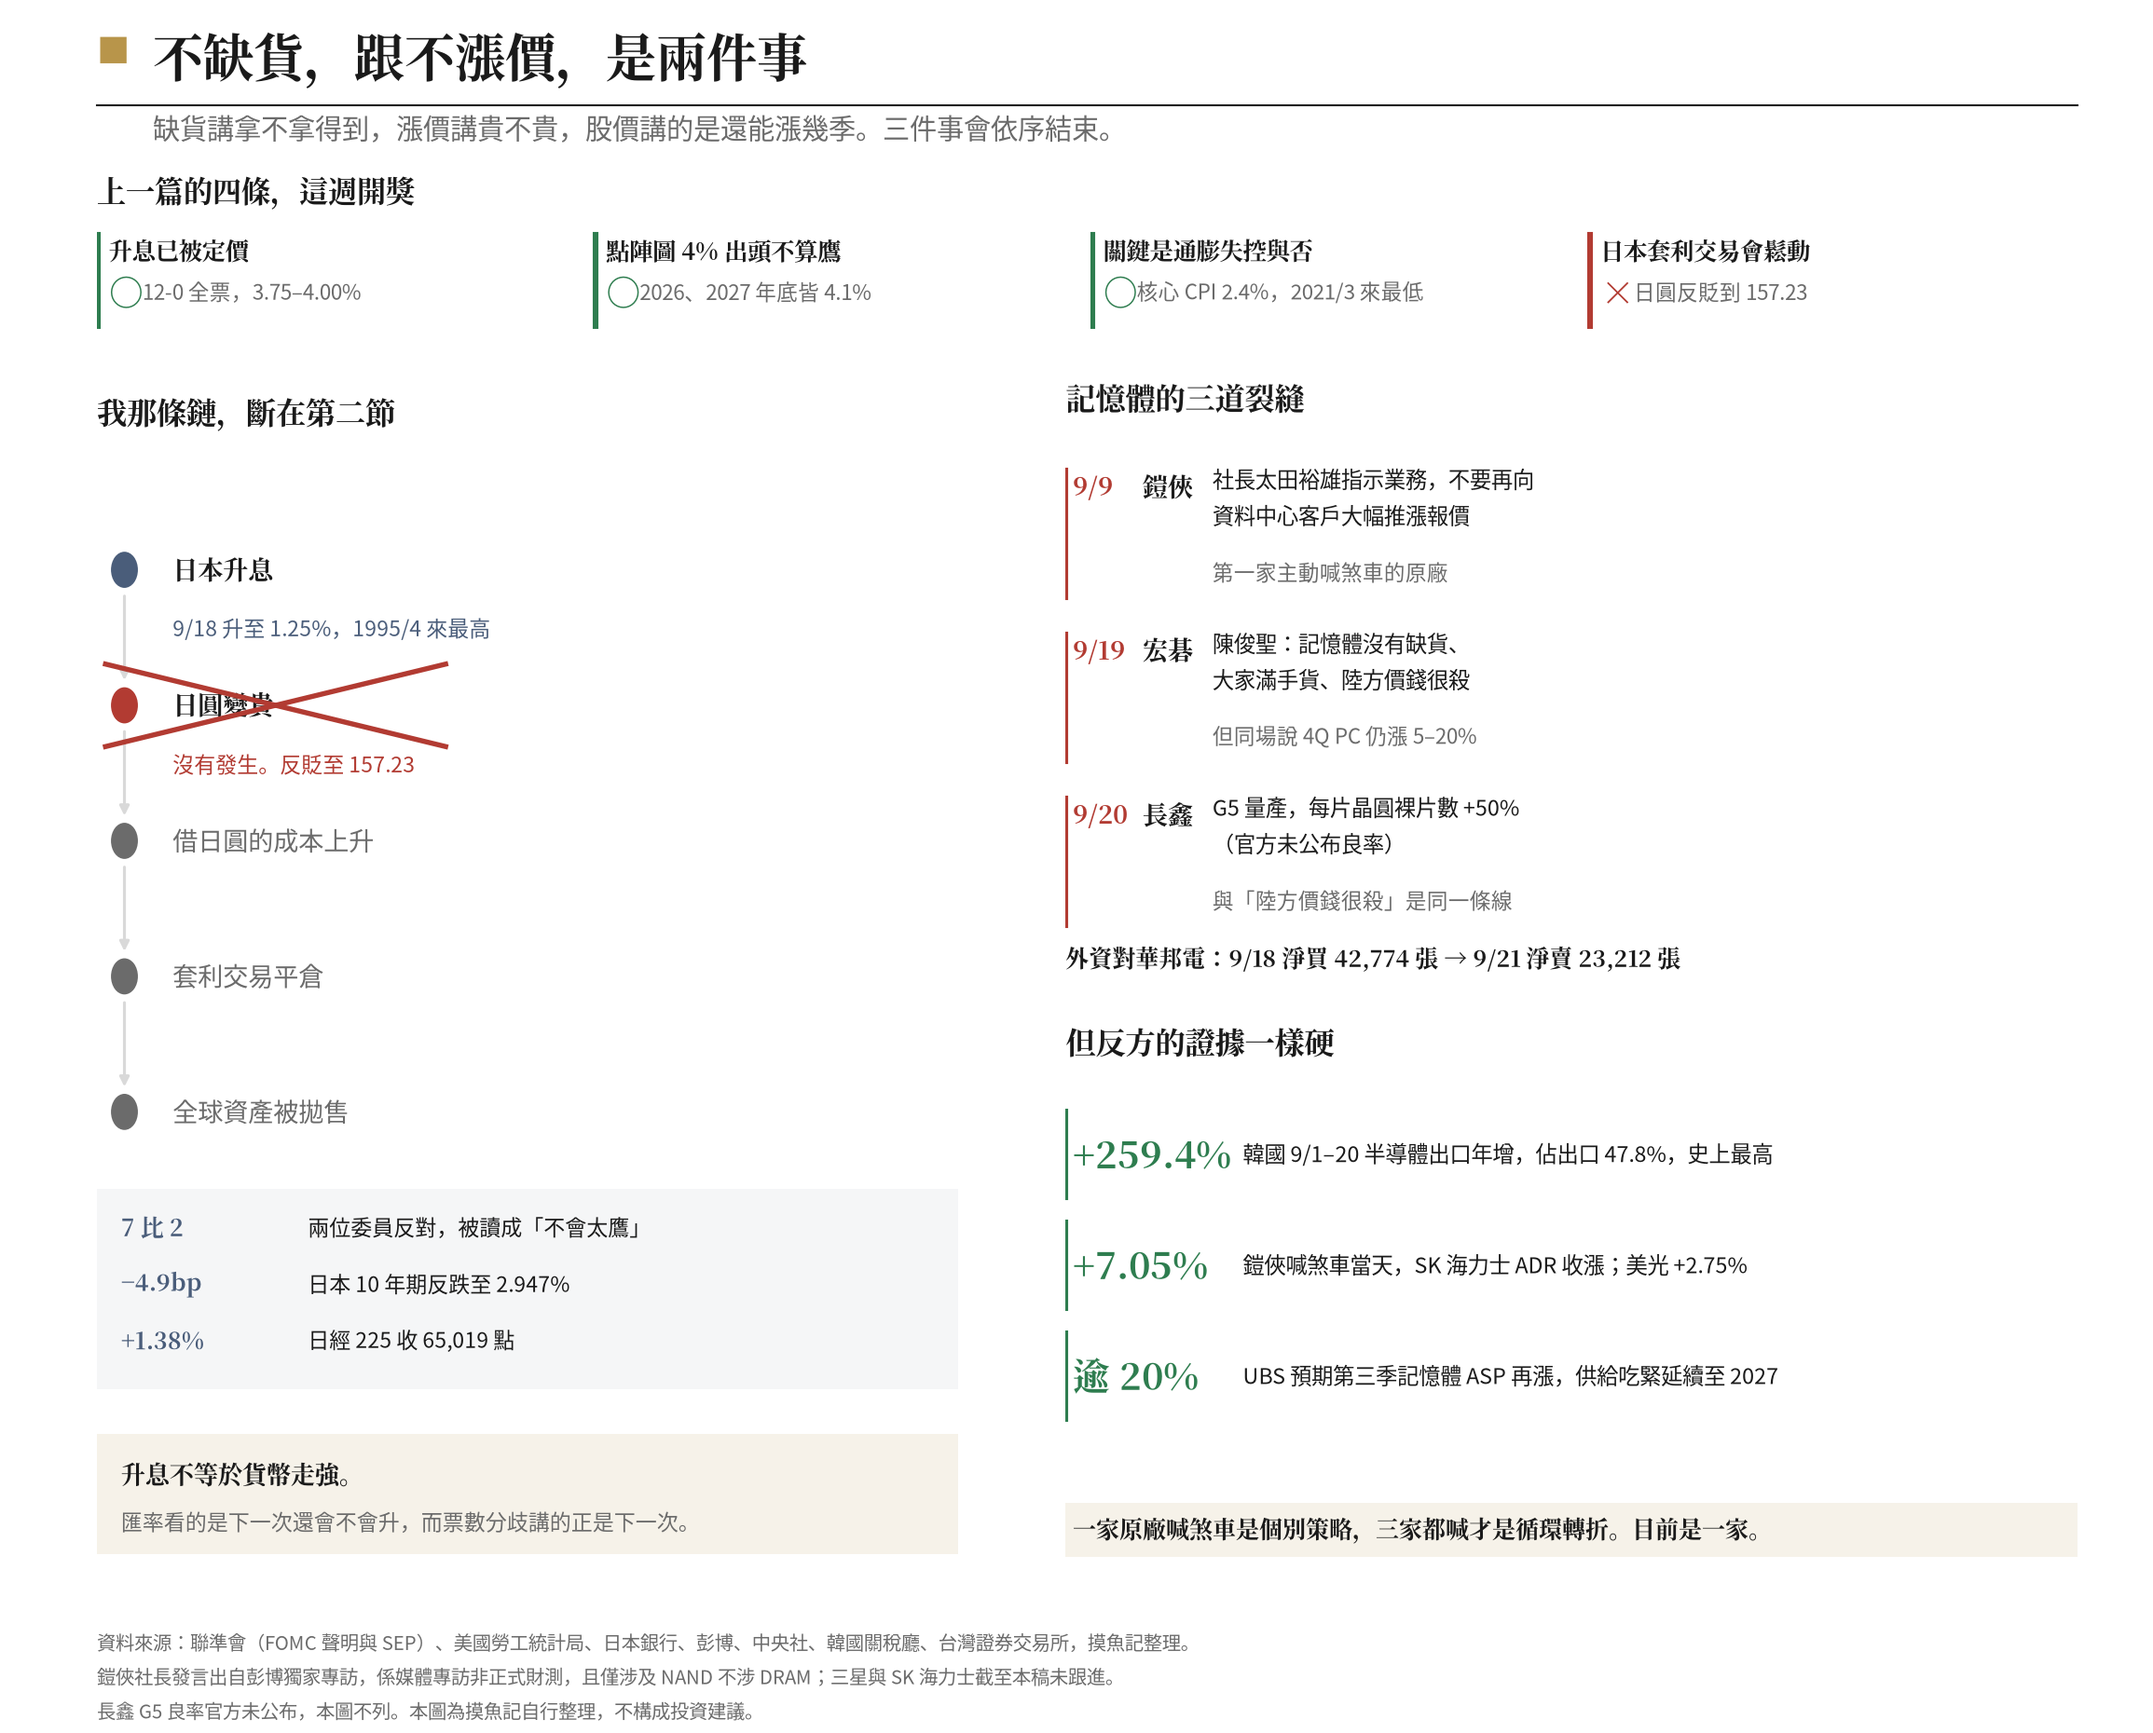
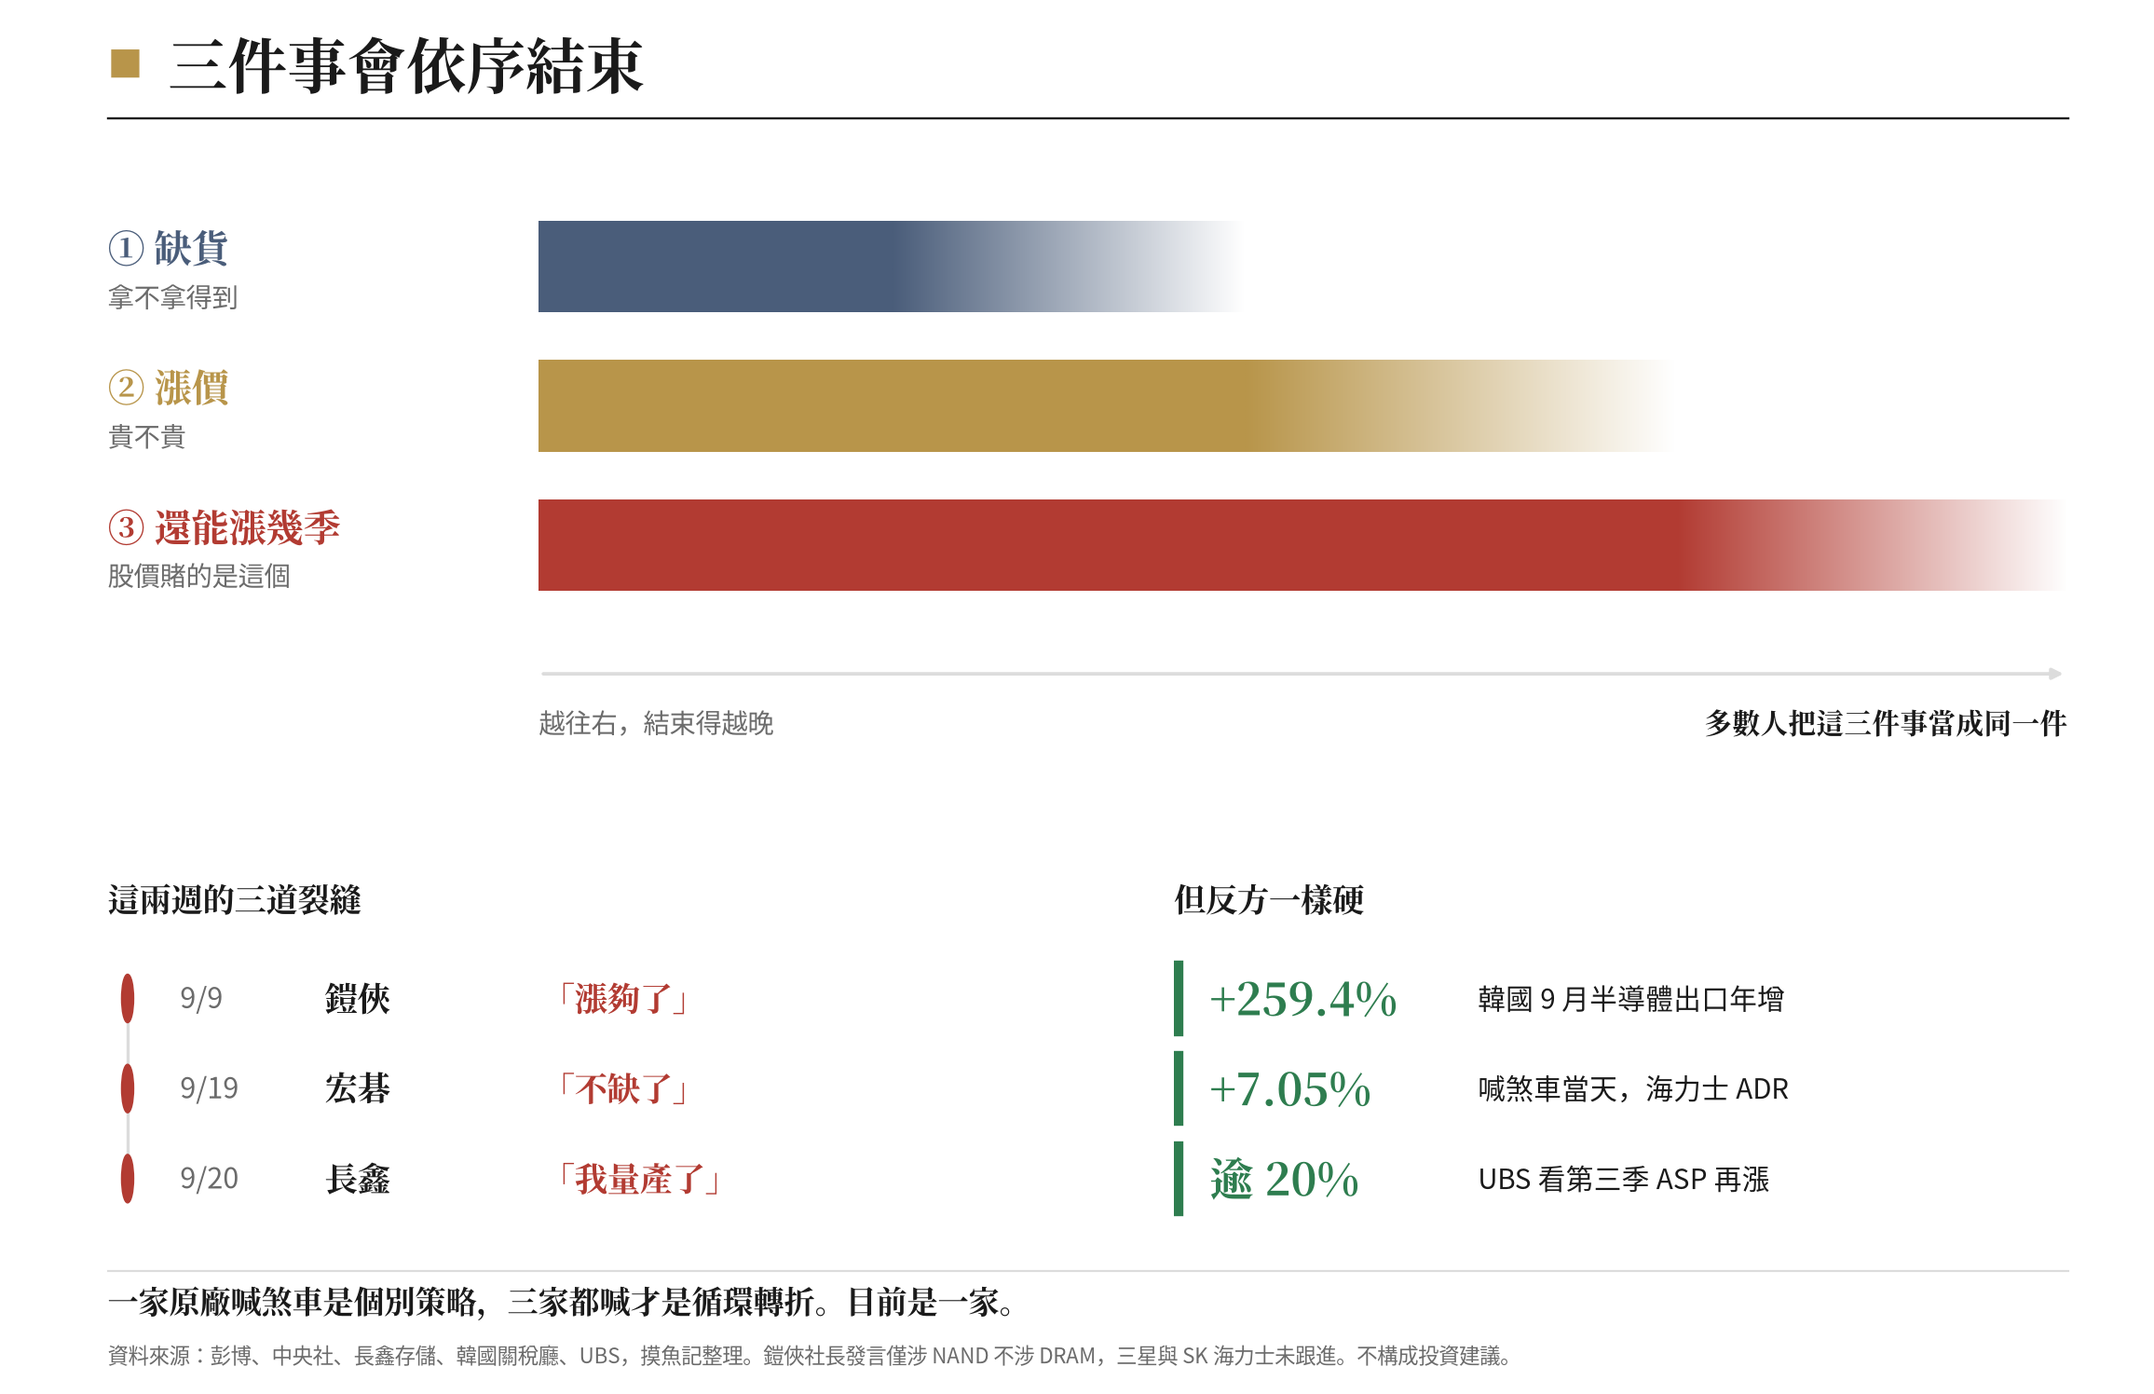
記憶體篇配圖改為 v2 極簡版
Jake 回饋 v1 資訊太多、要放重點、圖示比文字重要。砍掉一半內容，
改成單一主視覺。

主視覺：三條由實轉虛的橫條，長度遞增，末端用平滑漸層淡出代表
「會結束但時點未知」——缺貨（拿不拿得到）最先結束、漲價（貴不貴）
晚一點、還能漲幾季（股價賭的是這個）最後。這是全篇論點的視覺化，
不需要文字解釋。

左下三道裂縫壓到每列只有日期＋機構＋三到四字引號句（漲夠了／不缺了／
我量產了）；右下只留三個反方大數字。

砍掉：對帳計分卡四格、日本斷鏈五節圖、外資華邦電張數、所有解釋句。
這些正文都已寫到，圖不必重講。

技術面：漸層改用 LinearSegmentedColormap + imshow，消除 v1 用多個
薄矩形疊加造成的直條紋；並收緊第三條與座標軸之間的空白。
草稿的圖表註記段落同步改寫。

Claude-Session: https://claude.ai/code/session_017fQSiLgrET3Kg63C49rJdr

diff --git a/personal/drafts/gen_CRACK_chart.py b/personal/drafts/gen_CRACK_chart.py
@@ -1,12 +1,15 @@
 """
-摸魚記 記憶體對帳篇 圖：對帳計分卡 ＋ 日本那條斷掉的鏈 ＋ 三道裂縫與反方證據
-JPM Daily Guide 版型（白底、金色章頭方塊、Serif Bold 標題），沿用放大字級
+摸魚記 記憶體對帳篇 圖 v2：極簡版
+主視覺只有一個：三條依序結束的橫條。其餘壓到最低。
+JPM Daily Guide 版型（白底、金色章頭方塊、Serif Bold 標題）
 """
 import matplotlib
 matplotlib.use('Agg')
 import matplotlib.pyplot as plt
 import matplotlib.patches as mpatches
 import matplotlib.font_manager as fm
+import numpy as np
+from matplotlib.colors import LinearSegmentedColormap
 
 SANS = '/usr/share/fonts/opentype/noto/NotoSansCJK-Regular.ttc'
 SERIF_B = '/usr/share/fonts/opentype/noto/NotoSerifCJK-Bold.ttc'
@@ -17,163 +20,99 @@ serif_b = fm.FontProperties(fname=SERIF_B)
 matplotlib.rcParams['font.family'] = sans.get_name()
 matplotlib.rcParams['axes.unicode_minus'] = False
 
-BG = "#ffffff"; INK = "#1a1a1a"; GREY = "#6b6b6b"; LGRID = "#d9d9d9"
+BG = "#ffffff"; INK = "#1a1a1a"; GREY = "#6b6b6b"; LGRID = "#dcdcdc"
 GOLD = "#b8954a"; RED = "#b23b32"; GREEN = "#2e7d4f"; SLATE = "#4a5d7a"
 
-fig = plt.figure(figsize=(15.4, 12.4), facecolor=BG)
+fig = plt.figure(figsize=(13.6, 8.8), facecolor=BG)
 
 # ══════════ 章頭 ══════════
-fig.text(0.045, 0.964, "■", color=GOLD, fontsize=17)
-fig.text(0.071, 0.956, "不缺貨，跟不漲價，是兩件事",
-         color=INK, fontsize=26, fontproperties=serif_b)
-fig.lines.append(plt.Line2D([0.045, 0.965], [0.939, 0.939],
+fig.text(0.05, 0.945, "■", color=GOLD, fontsize=16)
+fig.text(0.078, 0.937, "三件事會依序結束",
+         color=INK, fontsize=27, fontproperties=serif_b)
+fig.lines.append(plt.Line2D([0.05, 0.96], [0.915, 0.915],
                             transform=fig.transFigure, color=INK, lw=1.0))
-fig.text(0.071, 0.920,
-         "缺貨講拿不拿得到，漲價講貴不貴，股價講的是還能漲幾季。三件事會依序結束。",
-         color=GREY, fontsize=14)
 
-# ══════════ 全寬：對帳計分卡 ══════════
-axT = fig.add_axes([0.045, 0.806, 0.920, 0.098])
-axT.set_facecolor(BG); axT.axis('off')
-axT.set_xlim(0, 100); axT.set_ylim(0, 10)
+# ══════════ 主視覺：三條依序結束的橫條 ══════════
+axM = fig.add_axes([0.05, 0.455, 0.91, 0.425])
+axM.set_facecolor(BG); axM.axis('off')
+axM.set_xlim(0, 100); axM.set_ylim(0, 10)
 
-axT.text(0, 9.4, "上一篇的四條，這週開獎", color=INK,
-         fontsize=15, fontproperties=serif_b, va='top')
-
-cards = [
-    ("升息已被定價", "○", "12-0 全票，3.75–4.00%", GREEN),
-    ("點陣圖 4% 出頭不算鷹", "○", "2026、2027 年底皆 4.1%", GREEN),
-    ("關鍵是通膨失控與否", "○", "核心 CPI 2.4%，2021/3 來最低", GREEN),
-    ("日本套利交易會鬆動", "×", "日圓反貶到 157.23", RED),
+bars = [
+    ("① 缺貨", "拿不拿得到", 40, 58, SLATE),
+    ("② 漲價", "貴不貴", 58, 80, GOLD),
+    ("③ 還能漲幾季", "股價賭的是這個", 80, 100, RED),
 ]
-for i, (claim, mark, note, c) in enumerate(cards):
-    x = i * 25.1
-    axT.add_patch(mpatches.Rectangle((x, 0.5), 0.16, 5.6, color=c, zorder=3))
-    axT.text(x + 0.6, 5.0, claim, color=INK, fontsize=12.2,
-             fontproperties=serif_b, va='center')
-    axT.text(x + 0.6, 2.6, f"{mark}", color=c, fontsize=18,
-             fontproperties=serif_b, va='center')
-    axT.text(x + 2.3, 2.6, note, color=GREY, fontsize=10.8, va='center')
 
-# ══════════ 左欄：日本那條斷掉的鏈 ══════════
-axL = fig.add_axes([0.045, 0.100, 0.400, 0.680])
+BAR_H = 1.55
+for i, (name, sub, solid, fade, c) in enumerate(bars):
+    y = 7.55 - i * 2.35
+    axM.add_patch(mpatches.Rectangle((22, y), solid - 22, BAR_H,
+                                     facecolor=c, zorder=3))
+    cmap = LinearSegmentedColormap.from_list('fade', [c, BG])
+    axM.imshow(np.linspace(0, 1, 512).reshape(1, -1),
+               extent=[solid, fade, y, y + BAR_H],
+               aspect='auto', cmap=cmap, zorder=3, interpolation='bilinear')
+    axM.text(0, y + BAR_H / 2 + 0.30, name, color=c, fontsize=17,
+             fontproperties=serif_b, va='center')
+    axM.text(0, y + BAR_H / 2 - 0.52, sub, color=GREY, fontsize=12, va='center')
+
+axM.annotate("", xy=(100, 1.45), xytext=(22, 1.45),
+             arrowprops=dict(arrowstyle='-|>', color=LGRID, lw=1.6))
+axM.text(22, 0.62, "越往右，結束得越晚", color=GREY, fontsize=12, va='center')
+axM.text(100, 0.62, "多數人把這三件事當成同一件", color=INK, fontsize=12.5,
+         fontproperties=serif_b, va='center', ha='right')
+
+# ══════════ 左下：三道裂縫 ══════════
+axL = fig.add_axes([0.05, 0.105, 0.42, 0.275])
 axL.set_facecolor(BG); axL.axis('off')
-axL.set_xlim(0, 10); axL.set_ylim(0, 10)
+axL.set_xlim(0, 100); axL.set_ylim(0, 10)
 
-axL.text(0, 9.72, "我那條鏈，斷在第二節", color=INK,
-         fontsize=15.5, fontproperties=serif_b, va='center')
+axL.text(0, 9.5, "這兩週的三道裂縫", color=INK,
+         fontsize=14.5, fontproperties=serif_b, va='top')
 
-chain = [
-    ("日本升息", True, SLATE, "9/18 升至 1.25%，1995/4 來最高"),
-    ("日圓變貴", False, RED, "沒有發生。反貶至 157.23"),
-    ("借日圓的成本上升", False, GREY, ""),
-    ("套利交易平倉", False, GREY, ""),
-    ("全球資產被拋售", False, GREY, ""),
-]
-for i, (txt, ok, c, note) in enumerate(chain):
-    y = 8.40 - i * 1.15
-    axL.add_patch(mpatches.Circle((0.32, y), 0.145, color=c, zorder=3))
-    axL.text(0.88, y, txt, color=INK if ok or i == 1 else GREY,
-             fontsize=13, fontproperties=serif_b if i <= 1 else sans, va='center')
-    if note:
-        axL.text(0.88, y - 0.50, note, color=c, fontsize=11, va='center')
-    if i < len(chain) - 1:
-        style = '-|>' if i == 0 else '-|>'
-        col = LGRID if i > 0 else LGRID
-        axL.annotate("", xy=(0.32, y - 0.97), xytext=(0.32, y - 0.19),
-                     arrowprops=dict(arrowstyle=style, color=col, lw=1.5))
-
-axL.plot([0.10, 4.05], [7.60, 6.90], color=RED, lw=2.6, zorder=5)
-axL.plot([0.10, 4.05], [6.90, 7.60], color=RED, lw=2.6, zorder=5)
-
-axL.add_patch(mpatches.Rectangle((0, 1.45), 10, 1.70,
-                                 facecolor=SLATE, alpha=0.055, zorder=0))
-evid = [
-    ("7 比 2", "兩位委員反對，被讀成「不會太鷹」"),
-    ("−4.9bp", "日本 10 年期反跌至 2.947%"),
-    ("+1.38%", "日經 225 收 65,019 點"),
-]
-for i, (num, desc) in enumerate(evid):
-    y = 2.82 - i * 0.48
-    axL.text(0.28, y, num, color=SLATE, fontsize=12,
+cracks = [("9/9", "鎧俠", "漲夠了"),
+          ("9/19", "宏碁", "不缺了"),
+          ("9/20", "長鑫", "我量產了")]
+for i, (d, who, what) in enumerate(cracks):
+    y = 6.5 - i * 2.35
+    axL.add_patch(mpatches.Circle((2.2, y), 0.62, color=RED, zorder=3))
+    axL.text(8, y, d, color=GREY, fontsize=13, va='center')
+    axL.text(24, y, who, color=INK, fontsize=15,
              fontproperties=serif_b, va='center')
-    axL.text(2.45, y, desc, color=INK, fontsize=11, va='center')
+    axL.text(48, y, f"「{what}」", color=RED, fontsize=15,
+             fontproperties=serif_b, va='center')
+    if i < 2:
+        axL.plot([2.2, 2.2], [y - 0.66, y - 1.69], color=LGRID, lw=1.4, zorder=1)
 
-axL.add_patch(mpatches.Rectangle((0, 0.05), 10, 1.02,
-                                 facecolor=GOLD, alpha=0.12, zorder=0))
-axL.text(0.28, 0.72, "升息不等於貨幣走強。", color=INK,
-         fontsize=12.6, fontproperties=serif_b, va='center')
-axL.text(0.28, 0.32, "匯率看的是下一次還會不會升，而票數分歧講的正是下一次。",
-         color=GREY, fontsize=11, va='center')
-
-# ══════════ 右欄上：三道裂縫 ══════════
-axR = fig.add_axes([0.495, 0.432, 0.470, 0.348])
+# ══════════ 右下：反方 ══════════
+axR = fig.add_axes([0.545, 0.105, 0.415, 0.275])
 axR.set_facecolor(BG); axR.axis('off')
 axR.set_xlim(0, 100); axR.set_ylim(0, 10)
 
-axR.text(0, 9.72, "記憶體的三道裂縫", color=INK,
-         fontsize=15.5, fontproperties=serif_b, va='center')
+axR.text(0, 9.5, "但反方一樣硬", color=INK,
+         fontsize=14.5, fontproperties=serif_b, va='top')
 
-cracks = [
-    ("9/9", "鎧俠", RED,
-     ["社長太田裕雄指示業務，不要再向", "資料中心客戶大幅推漲報價"],
-     "第一家主動喊煞車的原廠"),
-    ("9/19", "宏碁", RED,
-     ["陳俊聖：記憶體沒有缺貨、", "大家滿手貨、陸方價錢很殺"],
-     "但同場說 4Q PC 仍漲 5–20%"),
-    ("9/20", "長鑫", RED,
-     ["G5 量產，每片晶圓裸片數 +50%", "（官方未公布良率）"],
-     "與「陸方價錢很殺」是同一條線"),
-]
-for i, (d, who, c, lines, tail) in enumerate(cracks):
-    top = 8.55 - i * 2.72
-    axR.add_patch(mpatches.Rectangle((0, top - 2.16), 0.16, 2.16,
-                                     color=c, zorder=3))
-    axR.text(0.7, top - 0.30, d, color=c, fontsize=13,
+counters = [("+259.4%", "韓國 9 月半導體出口年增"),
+            ("+7.05%", "喊煞車當天，海力士 ADR"),
+            ("逾 20%", "UBS 看第三季 ASP 再漲")]
+for i, (num, desc) in enumerate(counters):
+    y = 6.5 - i * 2.35
+    axR.add_patch(mpatches.Rectangle((0, y - 0.95), 0.9, 1.9,
+                                     color=GREEN, zorder=3))
+    axR.text(4, y, num, color=GREEN, fontsize=20,
              fontproperties=serif_b, va='center')
-    axR.text(7.6, top - 0.30, who, color=INK, fontsize=13,
-             fontproperties=serif_b, va='center')
-    for j, ln in enumerate(lines):
-        axR.text(14.5, top - 0.18 - j * 0.60, ln, color=INK,
-                 fontsize=11.2, va='center')
-    axR.text(14.5, top - 1.72, tail, color=GREY, fontsize=10.8, va='center')
+    axR.text(34, y, desc, color=INK, fontsize=12.5, va='center')
 
-axR.text(0, 0.42, "外資對華邦電：9/18 淨買 42,774 張 → 9/21 淨賣 23,212 張",
-         color=INK, fontsize=11.8, fontproperties=serif_b, va='center')
-
-# ══════════ 右欄下：反方證據 ══════════
-fig.text(0.495, 0.392, "但反方的證據一樣硬", color=INK,
-         fontsize=15.5, fontproperties=serif_b)
-
-axB = fig.add_axes([0.495, 0.100, 0.470, 0.272])
-axB.set_facecolor(BG); axB.axis('off')
-axB.set_xlim(0, 100); axB.set_ylim(0, 10)
-
-counters = [
-    ("+259.4%", "韓國 9/1–20 半導體出口年增，佔出口 47.8%，史上最高", GREEN),
-    ("+7.05%", "鎧俠喊煞車當天，SK 海力士 ADR 收漲；美光 +2.75%", GREEN),
-    ("逾 20%", "UBS 預期第三季記憶體 ASP 再漲，供給吃緊延續至 2027", GREEN),
-]
-for i, (num, desc, c) in enumerate(counters):
-    y = 8.6 - i * 2.35
-    axB.add_patch(mpatches.Rectangle((0, y - 0.95), 0.16, 1.90,
-                                     color=c, zorder=3))
-    axB.text(0.7, y, num, color=c, fontsize=19,
-             fontproperties=serif_b, va='center')
-    axB.text(17.5, y, desc, color=INK, fontsize=11.2, va='center')
-
-axB.add_patch(mpatches.Rectangle((0, 0.05), 100, 1.15,
-                                 facecolor=GOLD, alpha=0.12, zorder=0))
-axB.text(0.7, 0.62, "一家原廠喊煞車是個別策略，三家都喊才是循環轉折。目前是一家。",
-         color=INK, fontsize=12, fontproperties=serif_b, va='center')
-
-fig.text(0.045, 0.062,
-         "資料來源：聯準會（FOMC 聲明與 SEP）、美國勞工統計局、日本銀行、彭博、中央社、韓國關稅廳、台灣證券交易所，摸魚記整理。\n"
-         "鎧俠社長發言出自彭博獨家專訪，係媒體專訪非正式財測，且僅涉及 NAND 不涉 DRAM；三星與 SK 海力士截至本稿未跟進。\n"
-         "長鑫 G5 良率官方未公布，本圖不列。本圖為摸魚記自行整理，不構成投資建議。",
-         color=GREY, fontsize=9.8, linespacing=1.8, va='top')
+# ══════════ 底線 ══════════
+fig.lines.append(plt.Line2D([0.05, 0.96], [0.088, 0.088],
+                            transform=fig.transFigure, color=LGRID, lw=0.9))
+fig.text(0.05, 0.058, "一家原廠喊煞車是個別策略，三家都喊才是循環轉折。目前是一家。",
+         color=INK, fontsize=14, fontproperties=serif_b)
+fig.text(0.05, 0.022,
+         "資料來源：彭博、中央社、長鑫存儲、韓國關稅廳、UBS，摸魚記整理。鎧俠社長發言僅涉 NAND 不涉 DRAM，三星與 SK 海力士未跟進。不構成投資建議。",
+         color=GREY, fontsize=9.5)
 
 out = '/home/user/KIWI/personal/drafts/CRACK-chart-memory.png'
-plt.savefig(out, dpi=150, facecolor=BG)
+plt.savefig(out, dpi=170, facecolor=BG)
 plt.close()
 print(f'Done -> {out}')
